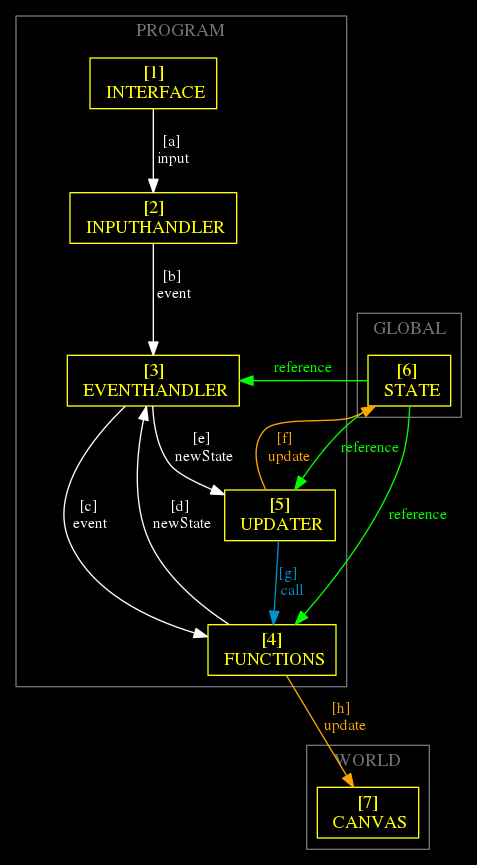
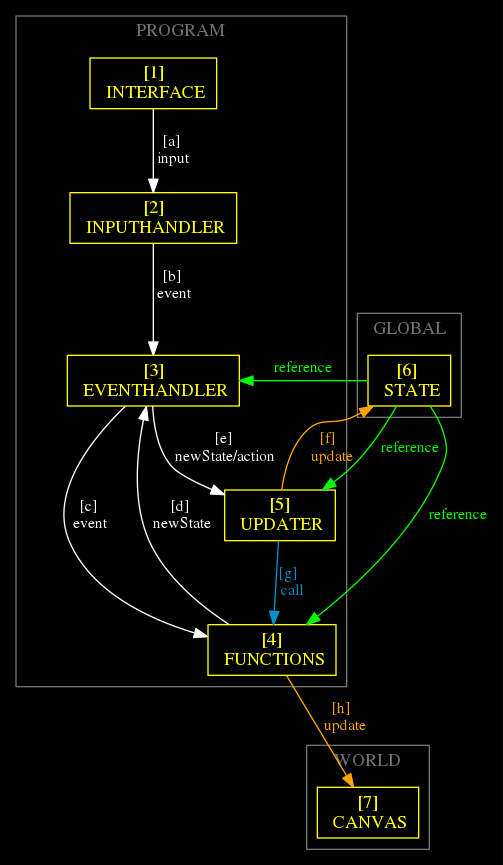
Update documentation: EVENTHANDLER, UPDATER and eventHandler.
UPDATER section: add MAP and DOM.
eventHandler: now also send and action to updater.

diff --git a/README.md b/README.md
@@ -1,35 +1,35 @@
-- [Diagram](#org30281be)
-- [Diagram Explanation](#org4c28519)
-  - [GLOBAL](#org0e203e8)
-  - [PROGRAM](#orgfeb842b)
-  - [WORLD](#org1ddbd1c)
-  - [ORDER](#orgcbae314)
-- [Setup](#org411a7c9)
-  - [Dependencies](#orgb754fe3)
-- [HTML](#org2d7681e)
-- [JavaScript](#org88bca76)
-    - [canvas](#orgedc4e6e)
-    - [variables](#org2f064b9)
-    - [INTERFACE and HANDLERS](#org6f8112b)
-    - [UPDATER](#org6a67e99)
-    - [functions](#orge1f3919)
-    - [MAIN FUNCTION](#orga186dc7)
+- [Diagram](#orgbc1c346)
+- [Diagram Explanation](#org7dc74cc)
+  - [GLOBAL](#orgc6b0315)
+  - [PROGRAM](#org4eb5dba)
+  - [WORLD](#org27ae99f)
+  - [ORDER](#org9f7ad12)
+- [Setup](#org875e657)
+  - [Dependencies](#orgaea30d1)
+- [HTML](#org307ef62)
+- [JavaScript](#orgd2e4598)
+    - [canvas](#org39e2495)
+    - [variables](#org2618700)
+    - [INTERFACE and HANDLERS](#orgd74621f)
+    - [UPDATER](#org7f41f02)
+    - [functions](#org3c10535)
+    - [MAIN FUNCTION](#orgb8fd560)
 
 
 
-<a id="org30281be"></a>
+<a id="orgbc1c346"></a>
 
 # Diagram
 
 ![img](diagram.png)
 
 
-<a id="org4c28519"></a>
+<a id="org7dc74cc"></a>
 
 # Diagram Explanation
 
 
-<a id="org0e203e8"></a>
+<a id="orgc6b0315"></a>
 
 ## GLOBAL
 
@@ -52,7 +52,7 @@ From [Wikipedia:](https://en.wikipedia.org/wiki/Global_variable)
 > In information technology and computer science, a program is described as stateful if it is designed to remember preceding events or user interactions;[1] the remembered information is called the state of the system.
 
 
-<a id="orgfeb842b"></a>
+<a id="org4eb5dba"></a>
 
 ## PROGRAM
 
@@ -75,23 +75,29 @@ From [Wikipedia:](https://en.wikipedia.org/wiki/Global_variable)
 
 -   EVENTHANDLER
     -   Apply the rules for:
+        -   object persistence
+        
         -   move
         
         -   attack
         
         -   collision detection
     
-    -   Send a new state to UPDATER
+    -   Send a new state and an action to UPDATER
     
     -   Input:
         -   Object
     
     -   Ouput:
-        -   Object || Array of Objects
+        -   Object , string || Array of Objects, string
 
 -   UPDATER
     -   Update:
         -   STATE
+        
+        -   MAP
+        
+        -   DOM
         
         -   CANVAS
 
@@ -100,7 +106,7 @@ From [Wikipedia:](https://en.wikipedia.org/wiki/Global_variable)
         -   Draw canvas
 
 
-<a id="org1ddbd1c"></a>
+<a id="org27ae99f"></a>
 
 ## WORLD
 
@@ -113,7 +119,7 @@ From [Wikipedia:](https://en.wikipedia.org/wiki/Global_variable)
 > The Canvas API provides a means for drawing graphics via JavaScript and the HTML <canvas> element. Among other things, it can be used for animation, game graphics, data visualization, photo manipulation, and real-time video processing.
 
 
-<a id="orgcbae314"></a>
+<a id="org9f7ad12"></a>
 
 ## ORDER
 
@@ -145,12 +151,12 @@ From [Wikipedia:](https://en.wikipedia.org/wiki/Global_variable)
 -   [7] CANVAS
 
 
-<a id="org411a7c9"></a>
+<a id="org875e657"></a>
 
 # Setup
 
 
-<a id="orgb754fe3"></a>
+<a id="orgaea30d1"></a>
 
 ## Dependencies
 
@@ -161,7 +167,7 @@ From [Wikipedia:](https://en.wikipedia.org/wiki/Global_variable)
 -   tape
 
 
-<a id="org2d7681e"></a>
+<a id="org307ef62"></a>
 
 # HTML
 
@@ -250,12 +256,12 @@ From [Wikipedia:](https://en.wikipedia.org/wiki/Global_variable)
 ```
 
 
-<a id="org88bca76"></a>
+<a id="orgd2e4598"></a>
 
 # JavaScript
 
 
-<a id="orgedc4e6e"></a>
+<a id="org39e2495"></a>
 
 ### canvas
 
@@ -265,7 +271,7 @@ const ctx = canvas.getContext("2d");
 ```
 
 
-<a id="org2f064b9"></a>
+<a id="org2618700"></a>
 
 ### variables
 
@@ -390,7 +396,7 @@ const ctx = canvas.getContext("2d");
     ```
 
 
-<a id="org6f8112b"></a>
+<a id="orgd74621f"></a>
 
 ### INTERFACE and HANDLERS
 
@@ -512,7 +518,7 @@ const ctx = canvas.getContext("2d");
     ```
 
 
-<a id="org6a67e99"></a>
+<a id="org7f41f02"></a>
 
 ### UPDATER
 
@@ -570,7 +576,7 @@ function updater(newState, action) {
 ```
 
 
-<a id="orge1f3919"></a>
+<a id="org3c10535"></a>
 
 ### functions
 
@@ -906,7 +912,7 @@ function updater(newState, action) {
         ```
 
 
-<a id="orga186dc7"></a>
+<a id="orgb8fd560"></a>
 
 ### MAIN FUNCTION
 
